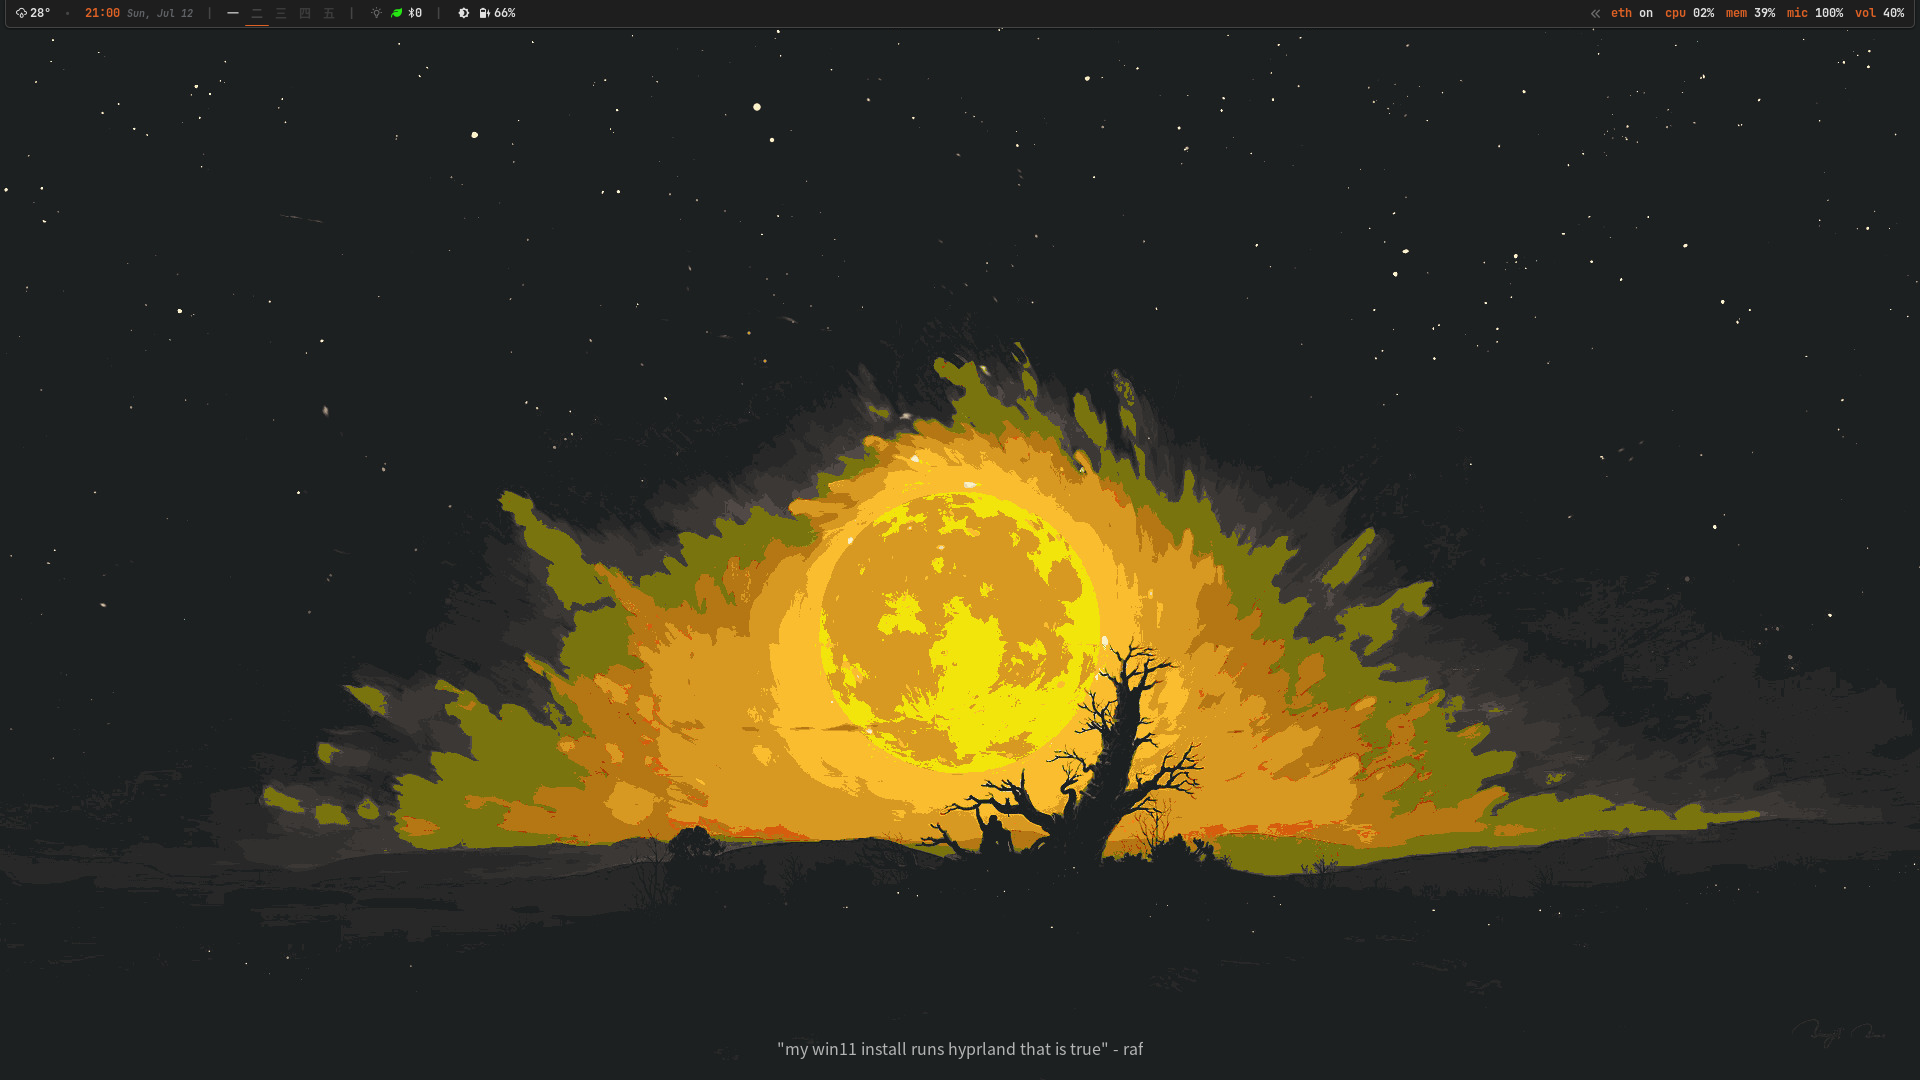
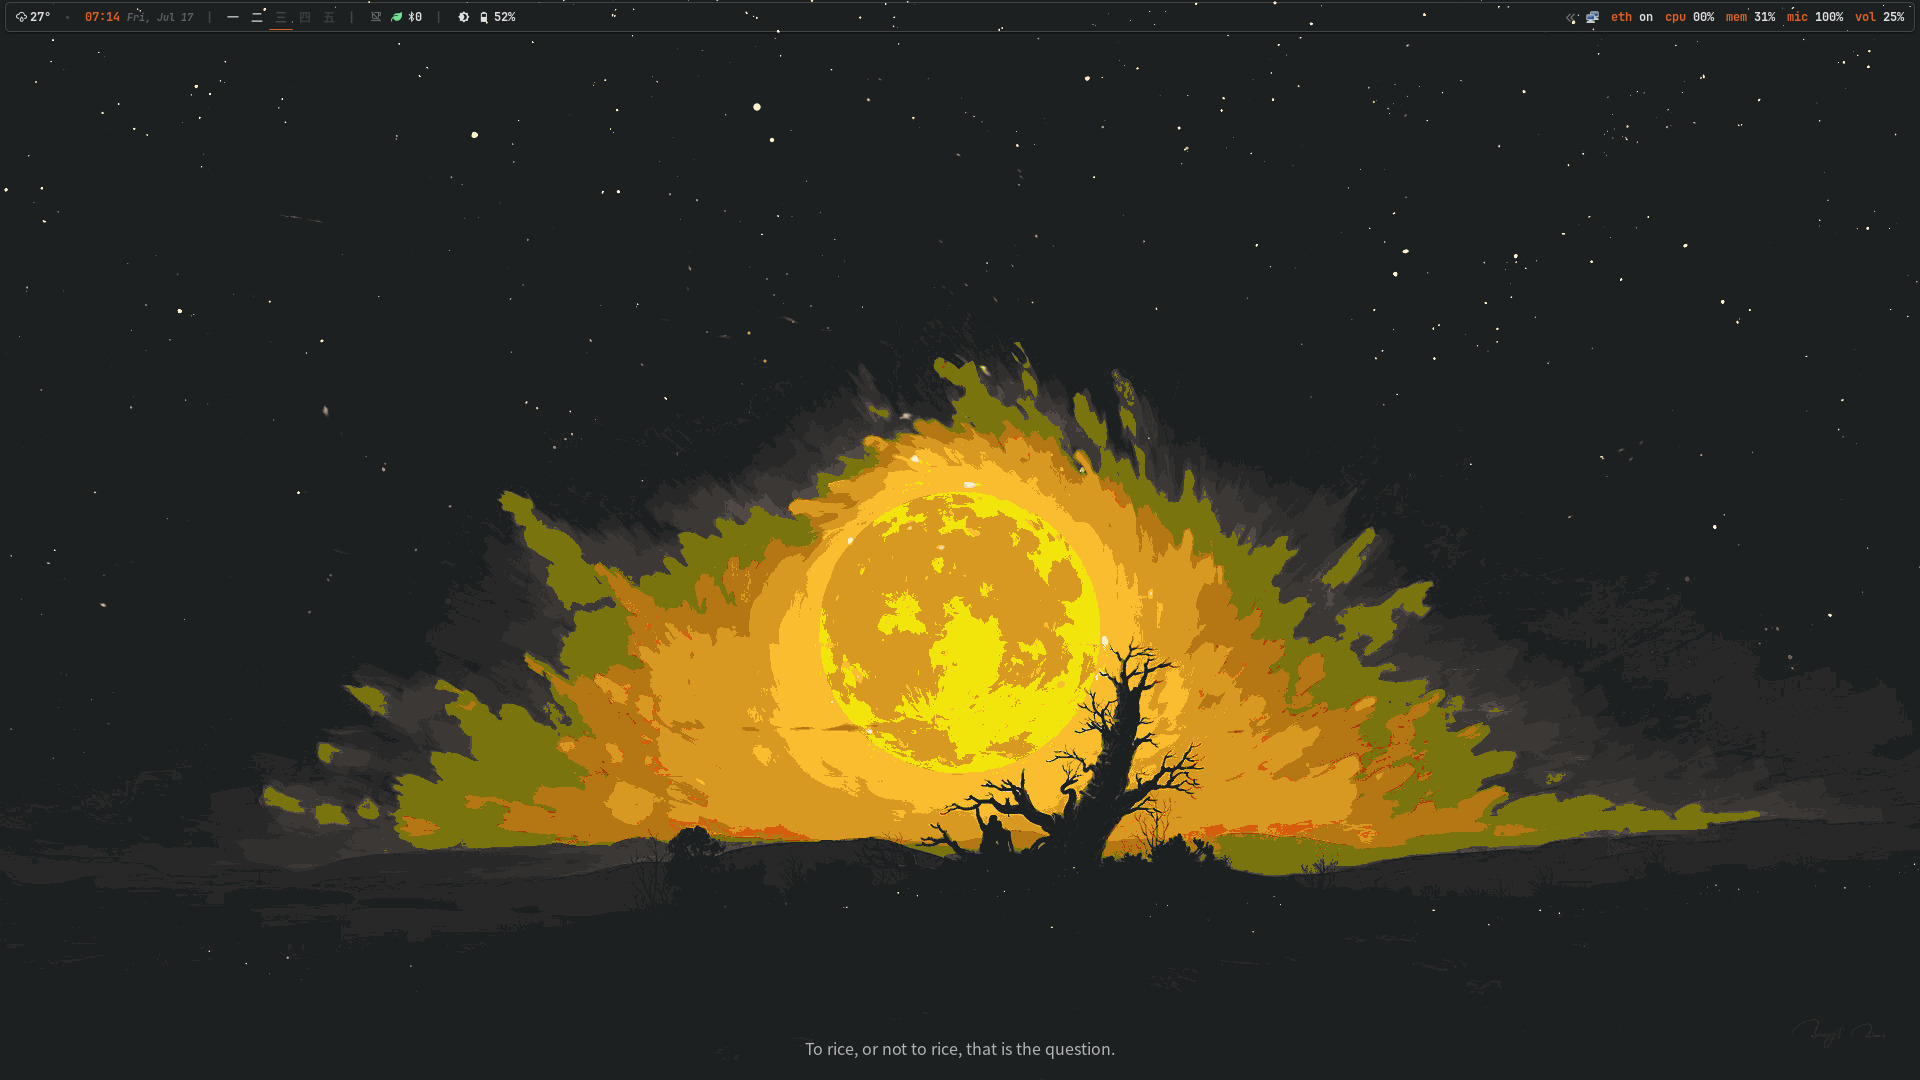
refactor: simple modification

diff --git a/.config/waybar/style.css b/.config/waybar/style.css
@@ -159,7 +159,7 @@ button:hover {
 }
 
 #power-profiles-daemon.power-saver {
-  color: #25e712;
+  color: #70e08c;
 }
 
 .hidden {